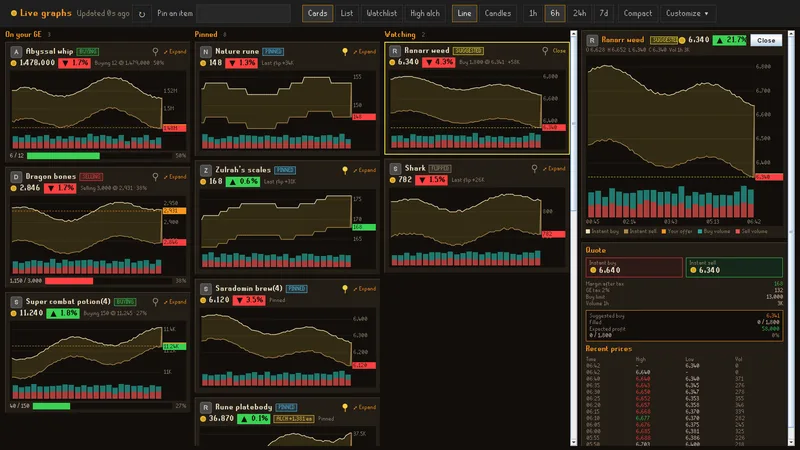
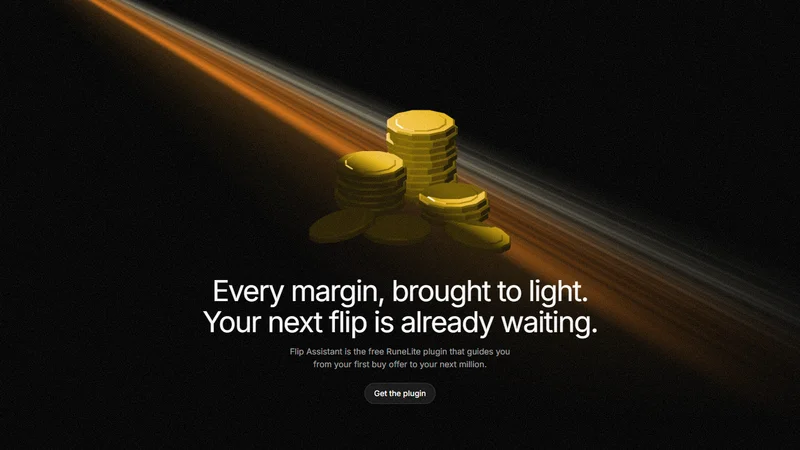
[UPDATE] - Flip Assistant: website landing page as cover and first image, drop the tall side-panel shots

diff --git a/src/people/giuseppi/content/projects/flip-assistant.md b/src/people/giuseppi/content/projects/flip-assistant.md
@@ -8,6 +8,6 @@ tags: ["Java", "RuneLite", "Python", "Parquet"]
 description: "Flip Assistant is a RuneLite plugin for Old School RuneScape that suggests what to buy and sell on the Grand Exchange, at what price and in what quantity, and tracks profit. The panel adds live trading-style price charts and a high-alch tracker. It builds on the open-source (BSD-2) client of the Flipping Copilot plugin and only advises: the one automated step is filling in the suggested price with the E key. A Python pipeline collects prices every 5 minutes from the OSRS Wiki real-time prices API, backfills price history to 2021 and exports daily snapshots. That data trains a profit model, with a first version trained and in review, that estimates how much of each flip will actually fill and how much of the margin is kept, so suggestions rank by realistic profit instead of the full spread. Submitted to the RuneLite Plugin Hub and waiting for approval."
 repo: "https://github.com/JohnFok119/flip-assistant"
 demo: "https://flip-assistant.vercel.app"
-media: [{ src: "/projects/flip-assistant/flip-assistant-live-ge.mp4", poster: "/projects/flip-assistant/live-poster.webp", alt: "Live game: Flip Assistant suggests a buy, the GE search shows the Flip Assistant shortcut, and pressing E fills the quantity and price before the offer is placed (live data).", kind: "video" }, { src: "/projects/flip-assistant/flip-assistant-live-graphs.mp4", poster: "/projects/flip-assistant/graphs-poster.webp", alt: "Live graphs window: Cards of the items on the GE, pinned and watched, one opened in the side drawer, then the Watchlist candlestick chart and the High alch finder (live data).", kind: "video" }, { src: "/projects/flip-assistant/side-suggestion.webp", alt: "Flip Assistant side panel: 'Buy 1,800 Ranarr weed for 6,341 gp, 58K profit in 45 min', marked SWING and 78% sure, with buy and sell price charts and the next three ideas below (demo data).", kind: "image" }, { src: "/projects/flip-assistant/live-ge-search.webp", alt: "Live game: the Grand Exchange item search offers the Flip Assistant suggestion (Amulet of avarice) as a one-click shortcut (live data).", kind: "image" }, { src: "/projects/flip-assistant/live-e-quantity.webp", alt: "Live game: 'Press [E] to set to Flip Assistant quantity' fills the suggested buy quantity in the GE offer (live data).", kind: "image" }, { src: "/projects/flip-assistant/live-e-price.webp", alt: "Live game: 'Press [E] to set to Flip Assistant price' fills the suggested buy price; the side panel shows the suggestion and a live price chart (live data).", kind: "image" }, { src: "/projects/flip-assistant/live-side-panel-chart.webp", alt: "Live game: the offer is placed in a GE slot while the Flip Assistant side panel charts the item's instant-buy and instant-sell prices (live data).", kind: "image" }, { src: "/projects/flip-assistant/live-cards.webp", alt: "Live graphs Cards view: price charts for the items on your GE, pinned and watched, with the suggested item open in the side drawer showing its quote and recent prices (demo data).", kind: "image" }, { src: "/projects/flip-assistant/live-list.webp", alt: "Live graphs List view: one dense table of every tracked item with buy and sell prices, margin, hourly volume, buy limit and a trend sparkline (demo data).", kind: "image" }, { src: "/projects/flip-assistant/live-watchlist.webp", alt: "Live graphs Watchlist: a large price chart with volume bars and a hover readout, next to the quote panel with instant buy, instant sell and margin after tax (demo data).", kind: "image" }, { src: "/projects/flip-assistant/live-alch.webp", alt: "Live graphs High alch tab: session casts and profit, then the high-alch finder ranking items by profit per cast with buy limit and hourly volume (demo data).", kind: "image" }, { src: "/projects/flip-assistant/live-alch-expanded.webp", alt: "High alch tab with a pinned item's price chart opened below the finder table (demo data).", kind: "image" }, { src: "/projects/flip-assistant/side-stats.webp", alt: "Flip Assistant profit log: session profit, ROI and profit per hour, then each recent flip with its buy, sell, tax and profit (demo data).", kind: "image" }]
+media: [{ src: "/projects/flip-assistant/landing.webp", alt: "Flip Assistant website landing page: stacks of gold coins in a beam of light over the headline 'Every margin, brought to light. Your next flip is already waiting.' and a Get the plugin button.", kind: "image" }, { src: "/projects/flip-assistant/flip-assistant-live-ge.mp4", poster: "/projects/flip-assistant/live-poster.webp", alt: "Live game: Flip Assistant suggests a buy, the GE search shows the Flip Assistant shortcut, and pressing E fills the quantity and price before the offer is placed (live data).", kind: "video" }, { src: "/projects/flip-assistant/flip-assistant-live-graphs.mp4", poster: "/projects/flip-assistant/graphs-poster.webp", alt: "Live graphs window: Cards of the items on the GE, pinned and watched, one opened in the side drawer, then the Watchlist candlestick chart and the High alch finder (live data).", kind: "video" }, { src: "/projects/flip-assistant/live-ge-search.webp", alt: "Live game: the Grand Exchange item search offers the Flip Assistant suggestion (Amulet of avarice) as a one-click shortcut (live data).", kind: "image" }, { src: "/projects/flip-assistant/live-e-quantity.webp", alt: "Live game: 'Press [E] to set to Flip Assistant quantity' fills the suggested buy quantity in the GE offer (live data).", kind: "image" }, { src: "/projects/flip-assistant/live-e-price.webp", alt: "Live game: 'Press [E] to set to Flip Assistant price' fills the suggested buy price; the side panel shows the suggestion and a live price chart (live data).", kind: "image" }, { src: "/projects/flip-assistant/live-side-panel-chart.webp", alt: "Live game: the offer is placed in a GE slot while the Flip Assistant side panel charts the item's instant-buy and instant-sell prices (live data).", kind: "image" }, { src: "/projects/flip-assistant/live-cards.webp", alt: "Live graphs Cards view: price charts for the items on your GE, pinned and watched, with the suggested item open in the side drawer showing its quote and recent prices (demo data).", kind: "image" }, { src: "/projects/flip-assistant/live-list.webp", alt: "Live graphs List view: one dense table of every tracked item with buy and sell prices, margin, hourly volume, buy limit and a trend sparkline (demo data).", kind: "image" }, { src: "/projects/flip-assistant/live-watchlist.webp", alt: "Live graphs Watchlist: a large price chart with volume bars and a hover readout, next to the quote panel with instant buy, instant sell and margin after tax (demo data).", kind: "image" }, { src: "/projects/flip-assistant/live-alch.webp", alt: "Live graphs High alch tab: session casts and profit, then the high-alch finder ranking items by profit per cast with buy limit and hourly volume (demo data).", kind: "image" }, { src: "/projects/flip-assistant/live-alch-expanded.webp", alt: "High alch tab with a pinned item's price chart opened below the finder table (demo data).", kind: "image" }]
 thumb: "/projects/flip-assistant/thumb.webp"
 ---

diff --git a/src/people/johnny/content/projects/flip-assistant.md b/src/people/johnny/content/projects/flip-assistant.md
@@ -8,6 +8,6 @@ tags: ["Java", "RuneLite", "Python", "Parquet", "LightGBM"]
 description: "Flip Assistant is a RuneLite plugin for Old School RuneScape that suggests what to buy and sell on the Grand Exchange, at what price and in what quantity, and tracks profit. The panel adds live trading-style price charts and a high-alch tracker. It builds on the open-source (BSD-2) client of the Flipping Copilot plugin and only advises: the one automated step is filling in the suggested price with the E key. A Python pipeline collects prices every 5 minutes from the OSRS Wiki real-time prices API, backfills price history to 2021 and exports daily snapshots, which feed a LightGBM price model in progress. Submitted to the RuneLite Plugin Hub and waiting for approval."
 repo: "https://github.com/JohnFok119/flip-assistant"
 demo: "https://flip-assistant.vercel.app"
-media: [{ src: "/projects/flip-assistant/flip-assistant-live-ge.mp4", poster: "/projects/flip-assistant/live-poster.webp", alt: "Live game: Flip Assistant suggests a buy, the GE search shows the Flip Assistant shortcut, and pressing E fills the quantity and price before the offer is placed (live data).", kind: "video" }, { src: "/projects/flip-assistant/flip-assistant-live-graphs.mp4", poster: "/projects/flip-assistant/graphs-poster.webp", alt: "Live graphs window: Cards of the items on the GE, pinned and watched, one opened in the side drawer, then the Watchlist candlestick chart and the High alch finder (live data).", kind: "video" }, { src: "/projects/flip-assistant/side-suggestion.webp", alt: "Flip Assistant side panel: 'Buy 1,800 Ranarr weed for 6,341 gp, 58K profit in 45 min', marked SWING and 78% sure, with buy and sell price charts and the next three ideas below (demo data).", kind: "image" }, { src: "/projects/flip-assistant/live-ge-search.webp", alt: "Live game: the Grand Exchange item search offers the Flip Assistant suggestion (Amulet of avarice) as a one-click shortcut (live data).", kind: "image" }, { src: "/projects/flip-assistant/live-e-quantity.webp", alt: "Live game: 'Press [E] to set to Flip Assistant quantity' fills the suggested buy quantity in the GE offer (live data).", kind: "image" }, { src: "/projects/flip-assistant/live-e-price.webp", alt: "Live game: 'Press [E] to set to Flip Assistant price' fills the suggested buy price; the side panel shows the suggestion and a live price chart (live data).", kind: "image" }, { src: "/projects/flip-assistant/live-side-panel-chart.webp", alt: "Live game: the offer is placed in a GE slot while the Flip Assistant side panel charts the item's instant-buy and instant-sell prices (live data).", kind: "image" }, { src: "/projects/flip-assistant/live-cards.webp", alt: "Live graphs Cards view: price charts for the items on your GE, pinned and watched, with the suggested item open in the side drawer showing its quote and recent prices (demo data).", kind: "image" }, { src: "/projects/flip-assistant/live-list.webp", alt: "Live graphs List view: one dense table of every tracked item with buy and sell prices, margin, hourly volume, buy limit and a trend sparkline (demo data).", kind: "image" }, { src: "/projects/flip-assistant/live-watchlist.webp", alt: "Live graphs Watchlist: a large price chart with volume bars and a hover readout, next to the quote panel with instant buy, instant sell and margin after tax (demo data).", kind: "image" }, { src: "/projects/flip-assistant/live-alch.webp", alt: "Live graphs High alch tab: session casts and profit, then the high-alch finder ranking items by profit per cast with buy limit and hourly volume (demo data).", kind: "image" }, { src: "/projects/flip-assistant/live-alch-expanded.webp", alt: "High alch tab with a pinned item's price chart opened below the finder table (demo data).", kind: "image" }, { src: "/projects/flip-assistant/side-stats.webp", alt: "Flip Assistant profit log: session profit, ROI and profit per hour, then each recent flip with its buy, sell, tax and profit (demo data).", kind: "image" }]
+media: [{ src: "/projects/flip-assistant/landing.webp", alt: "Flip Assistant website landing page: stacks of gold coins in a beam of light over the headline 'Every margin, brought to light. Your next flip is already waiting.' and a Get the plugin button.", kind: "image" }, { src: "/projects/flip-assistant/flip-assistant-live-ge.mp4", poster: "/projects/flip-assistant/live-poster.webp", alt: "Live game: Flip Assistant suggests a buy, the GE search shows the Flip Assistant shortcut, and pressing E fills the quantity and price before the offer is placed (live data).", kind: "video" }, { src: "/projects/flip-assistant/flip-assistant-live-graphs.mp4", poster: "/projects/flip-assistant/graphs-poster.webp", alt: "Live graphs window: Cards of the items on the GE, pinned and watched, one opened in the side drawer, then the Watchlist candlestick chart and the High alch finder (live data).", kind: "video" }, { src: "/projects/flip-assistant/live-ge-search.webp", alt: "Live game: the Grand Exchange item search offers the Flip Assistant suggestion (Amulet of avarice) as a one-click shortcut (live data).", kind: "image" }, { src: "/projects/flip-assistant/live-e-quantity.webp", alt: "Live game: 'Press [E] to set to Flip Assistant quantity' fills the suggested buy quantity in the GE offer (live data).", kind: "image" }, { src: "/projects/flip-assistant/live-e-price.webp", alt: "Live game: 'Press [E] to set to Flip Assistant price' fills the suggested buy price; the side panel shows the suggestion and a live price chart (live data).", kind: "image" }, { src: "/projects/flip-assistant/live-side-panel-chart.webp", alt: "Live game: the offer is placed in a GE slot while the Flip Assistant side panel charts the item's instant-buy and instant-sell prices (live data).", kind: "image" }, { src: "/projects/flip-assistant/live-cards.webp", alt: "Live graphs Cards view: price charts for the items on your GE, pinned and watched, with the suggested item open in the side drawer showing its quote and recent prices (demo data).", kind: "image" }, { src: "/projects/flip-assistant/live-list.webp", alt: "Live graphs List view: one dense table of every tracked item with buy and sell prices, margin, hourly volume, buy limit and a trend sparkline (demo data).", kind: "image" }, { src: "/projects/flip-assistant/live-watchlist.webp", alt: "Live graphs Watchlist: a large price chart with volume bars and a hover readout, next to the quote panel with instant buy, instant sell and margin after tax (demo data).", kind: "image" }, { src: "/projects/flip-assistant/live-alch.webp", alt: "Live graphs High alch tab: session casts and profit, then the high-alch finder ranking items by profit per cast with buy limit and hourly volume (demo data).", kind: "image" }, { src: "/projects/flip-assistant/live-alch-expanded.webp", alt: "High alch tab with a pinned item's price chart opened below the finder table (demo data).", kind: "image" }]
 thumb: "/projects/flip-assistant/thumb.webp"
 ---
